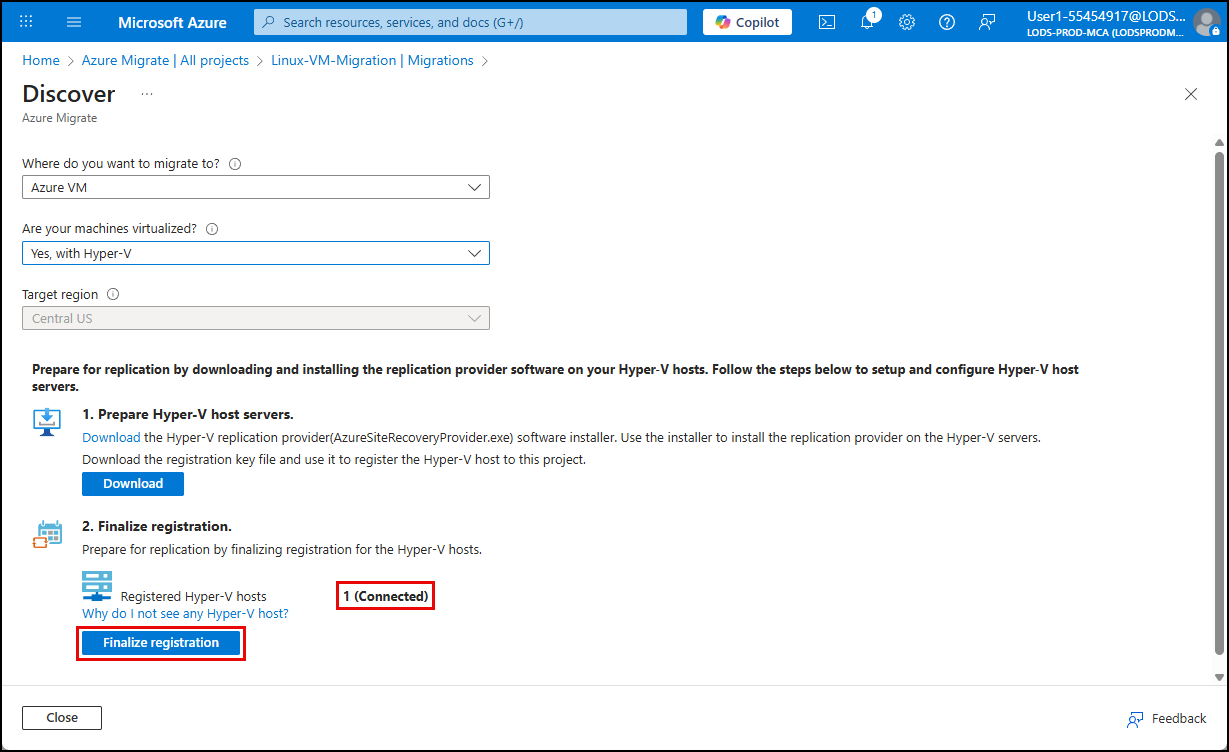
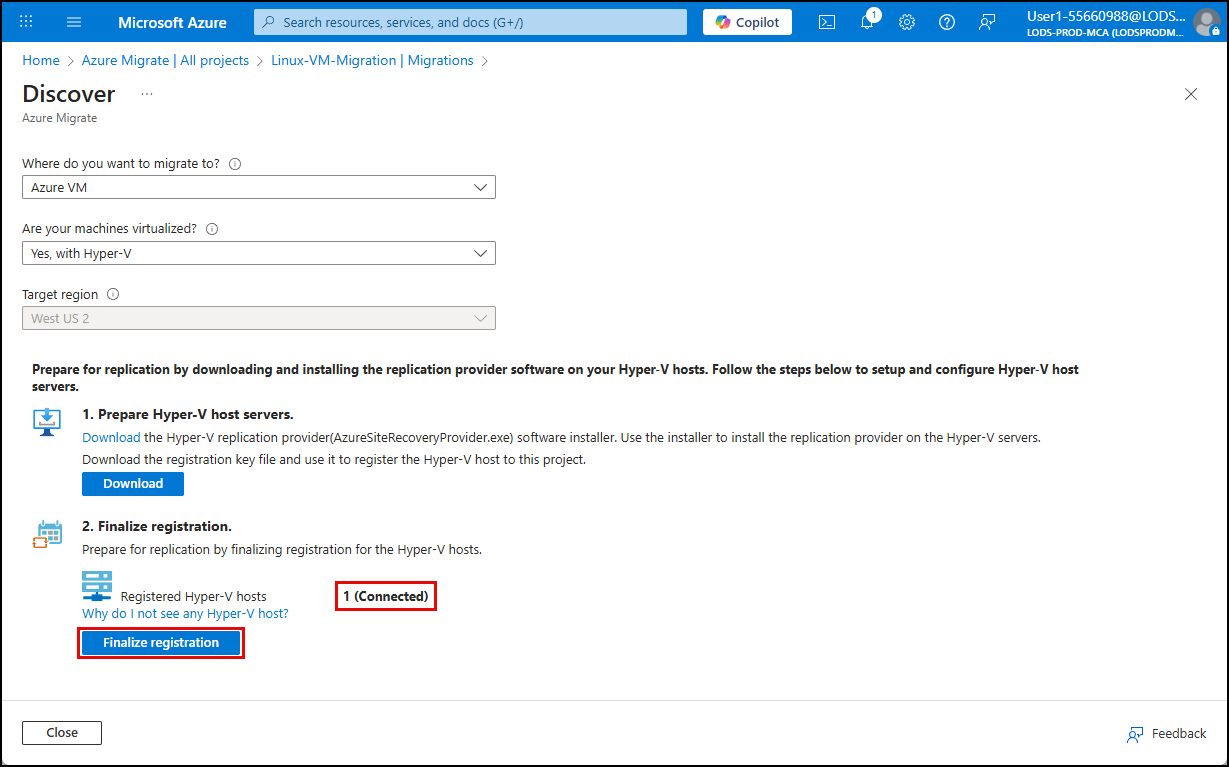
Updates based on feedback and required changes

diff --git a/Skillable/07-techsummit-migration-lab.md b/Skillable/07-techsummit-migration-lab.md
@@ -63,14 +63,17 @@ In this task, you will review the assessment report generated by Azure Migrate t
 
     ![The localhost:5432 PostgreSQL instance is highlighted in the list of discovered PostgreSQL servers.](./media/azure-migrate-project-assessment-postgresql-localhost-instance.png)
 
-    > **NOTE**: The **DB Instance** page in the assessment report includes tabs that provide a summary of the assessment, readiness details, sources details, target recommendations with estimated monthly total cost of ownership (TCO) for migrating the PostgreSQL instance to Azure. It also provides insights into the recommended configuration settings for the target Azure Database for PostgreSQL flexible server and top migration issues.
+    > **NOTE**:
+    > The **DB Instance** page in the assessment report includes tabs that provide a summary of the assessment, readiness details, sources details, target recommendations with estimated monthly total cost of ownership (TCO) for migrating the PostgreSQL instance to Azure. It also provides insights into the recommended configuration settings for the target Azure Database for PostgreSQL flexible server and top migration issues.
 
 5. [] Select the **Readiness** tab and review any potential blockers or issues that need to be addressed before migration by selecting number specified for **Migration issues**.
 
     ![The Readiness tab is displayed, with the Migration issues value highlighted.](./media/azure-migrate-project-assessment-postgresql-readiness.png)
 
     > **NOTE**:
-    > The readiness details will highlight any unsupported features, extensions, or configurations that may require remediation before proceeding with the migration. Review the migration issues and warnings to understand any potential blockers. The final section of the **Migration issues/warnings** dialog provides details about if any databases on the source server have migration blockers.
+    > The readiness details will highlight any unsupported features, extensions, or configurations that may require remediation before proceeding with the migration. Review the migration issues and warnings to understand any potential blockers. The final section of the **Migration issues/warnings** dialog provides details about if any databases on the source server have migration blockers. Migration issues are at the instance level, not the database level. Nothing is blocking the migration.
+    >
+    > ![The No user database on localhost:5432 has migration issues message is highlighted in the Migration issues/warnings dialog for PostgreSQL.](media/postgres-migration-issues.png)
 
 6. [] Select the **Source properties** tab, and inspect the **Version** of the source database to ensure it is compatible with the migration service in Azure Database for PostgreSQL.
 
@@ -330,7 +333,9 @@ In this task, you will configure and launch the migration and monitor its progre
 
     ![Screenshot of the Migrate PostgreSQL to Azure Database for PostgreSQL flexible server Source server tab, with the specified values entered into the form.](./media/azure-postgresql-migrate-source-server.png)
 
-5. [] On the **Target server** tab, enter your lab user password (same as the Azure login password) and select **Next: Databases >**.
+5. [] On the **Target server** tab, enter the **Pg Admin Password** found on the **Resources** tab of the lab instructions and select **Next: Databases >**.
+
+    ![The Pg Admin Password is highlighted on the lab instructions Resources tab.](media/lab-instructions-resources-pg-admin-password.png)
 
     ![Screenshot of the Migrate PostgreSQL to Azure Database for PostgreSQL flexible server Target server tab, with the specified password entered into the form.](./media/azure-postgresql-migrate-target-server.png)
 
@@ -346,7 +351,7 @@ In this task, you will configure and launch the migration and monitor its progre
 
     ![The Migration dialog is displayed, with the Refresh button highlighted. The dvdrental-db-migration run has a status of In progress.](./media/azure-postgresql-migrate-monitor.png)
 
-9. [] Select `dvdrental-db-migation` in the list to view the validation and migration details while monitoring.
+9.  [] Select `dvdrental-db-migation` in the list to view the validation and migration details while monitoring.
 
     ![The details page for the dvdrental-db-migation validate and migrate run as displayed.](media/azure-postgresql-migate-monitor-details.png)
 
@@ -388,16 +393,17 @@ In this task, you will connect to the target Azure database and run few a simple
 
     > **NOTE**: Within the **Essentials** pane, also note the **Administrator login** value. This is the username that will be used to log in to the server. This differs from the `pgadmin` user you used to connect to the on-premises database.
 
-3. [] Return to the open PuTTY terminal window on your Lab VM, or open a new one by connecting to the private IP address of the `LinuxLabVM-CentOS-7-PostGreSQL` VM and logging in with the `root` user and password.
+3. [] Return to the open PuTTY terminal window on your Lab VM, or open a new one by connecting to the private IP address of the `LinuxLabVM-CentOS-7-PostGreSQL` VM and logging in with the `root` user and password, `Pa$$w0rd`.
 
 4. [] At the PuTTY shell prompt, run the following command to connect to your Azure Database for PostgreSQL flexible server, replacing the `<YOUR_AZURE_POSTGRESQL_ENDPOINT>` token with the endpoint for your Azure Database for PostgreSQL flexible server.
 
     ```bash
-    psql -h pg-techsummit55290035.postgres.database.azure.com -U pgadminuser -d dvdrental
     psql -h <YOUR_AZURE_POSTGRESQL_ENDPOINT> -U pgadminuser -d dvdrental
     ```
 
 5. [] When prompted for the password for user `pgadminuser`, enter the **Password** from the **Resources** tab in the lab instructions.
+
+    ![The Pg Admin Password is highlighted on the lab instructions Resources tab.](media/lab-instructions-resources-pg-admin-password.png)
 
 6. [] From the `dvdrental` prompt, execute the following query to confirm that the data and schema were successfully migrated:
 

diff --git a/Skillable/06-techsummit-migration-lab.md b/Skillable/06-techsummit-migration-lab.md
@@ -101,8 +101,9 @@ In this task, you will prepare for the replication of a Linux VM by downloading 
 
    - [] **Where to you want to migrate to?**: Choose `Azure VM`
    - [] **Are your machines virtualized?**: Choose `Yes, with Hyper-V`
-   - [] **Target region**: Accept the default value already selected
-   - [] Check the box for **Confirm that the target region for migration is "centralus**
+   - [] **Target region**: Select the location that matches the `RG-Techsummit` resource group's region
+     - **CRITICAL**: The region must be the same as the `RG-Techsummit` resource group and the VNet within it, or you will not see the resources you are migrating.
+   - [] Check the box for **Confirm that the target region for migration is "[YOUR_RESOURCE_GROUP_REGION]"**, where `[YOUR_RESOURCE_GROUP_REGION]` is the region of the `RG-Techsummit` resource group.
    - [] Select **Create resources**
 
     ![The Discover blade is populated with the values specified above.](./media/43-CreateResources.png)
@@ -120,7 +121,7 @@ In this task, you will prepare for the replication of a Linux VM by downloading 
 
    1. [] Select **On (recommended)** and **Next**.
 
-   2. [] Select **Install**, accepting the default install location.
+   2. [] Select **Install**, accepting the default installation location.
 
    3. [] Select **Register** and on the **Vault Settings...** screen, browse to the **key file** you downloaded earlier and select **Next**.
 
@@ -130,7 +131,7 @@ In this task, you will prepare for the replication of a Linux VM by downloading 
 
    4. [] Select **Connect directly to Azure Site Recovery without a proxy server** and select **Next**.
 
-   5. [] Configuration Azure Site Recovery for registration will take one or two minutes to complete. When it finishes, select **Finish**.
+   5. [] Configuration Azure Site Recovery for registration will take one or two minutes to install. When it completes, select **Finish**.
 
 5. [] Go back to the **Discover** blade in the Azure portal and refresh the browser page.
 
@@ -172,7 +173,7 @@ In this task, you start replication of a Linux VM.
 
 ## Key tasks
 
-1. [] On the **Migrations** blade in the Azure portal, select the **Replicate** button.
+1. [] Return to the Azure Migrate **Migrations** blade in the Azure portal by going to Azure Migrate, selecting All projects in the left menu, selecting the **Linux-VM-Migration** project, selecting **Migrations** under Execute in the left menu, and then selecting the **Replicate** button.
 
     ![The Replicate button is highlighted on the Migrations blade.](./media/47-Replicate.png)
 
@@ -195,16 +196,19 @@ In this task, you start replication of a Linux VM.
 
     ![The Replicate Virutal machines tab is populated with the values specified above and the steps are numbered 1-4.](./media/49-ReplicateVM.png)
 
+    > **NOTE**: If you see an orange exclamation mark under **Azure VM Readiness** from the `LinuxLabVM-Ubuntu` VM, create a new assessment with a different name before proceeding.
+
 4. [] On the **Target settings** tab:
 
     - [] **Resource group**: Select `RG-Techsummit`
-    - [] **Cache storage account**: Select the storage account that was created for you
+    - [] **Cache storage account**: Select the storage account whose name begins with "storazmig"
     - [] **Virtual network**: Choose `vnet-AzMigrateLab`
+    - [] **Availability options**: Choose `No infrastructure redundancy required`
     - [] Select **Next**
 
     ![The settings above are entered into the Target settings tab. An error message is highlighted.](./media/50-ErrorIAM.png)
 
-    > **NOTE**: You may see an error that the Azure Migrate service cannot access the replication storage account. This error is because the storage account does not have the proper access privilege to the Recovery Service vault. To resolve this issue, first open the Recovery Service Vault resource in another browser page and under `Settings | Identity` turn ON the status on the `System assigned` and select **Save**.
+    > **NOTE**: If you see an error that the Azure Migrate service cannot access the replication storage account. This error is because the storage account does not have the proper access privilege to the Recovery Service vault. To resolve this issue, open the Recovery Service Vault resource in another browser page and under `Settings | Identity` turn ON the status on the `System assigned` and select **Save**.
     >
     > ![Screenshot of the steps to turn on the System Assigned identity for the recovery services vault.](./media/51-IAM-RecoveryVault.png)
     >
@@ -215,13 +219,14 @@ In this task, you start replication of a Linux VM.
 5. [] On the **Compute** tab:
 
     - [] Select `Linux` in the **OS Type** drop down
-    - [] Select any availability
     - [] Accept the default values for all other fields
     - [] Select **Next**
 
     ![Screenshot of the Compute tab, with the OS Type and its value of Linux highlighted.](./media/52-OSType.png)
 
-6. [] Accept the default values on the remaining tabs, then select **Start** on the **Review + start replication** tab.
+6. [] Accept the default values on the remaining tabs, then select **Replicate** on the **Review + start replication** tab.
+
+    ![The Review + start replication tab is displayed with the Replicate button highlighted.](media/review-start-replication.png)
 
 > **IMPORTANT**:
 >

diff --git a/Skillable/01-techsummit-migration-lab.md b/Skillable/01-techsummit-migration-lab.md
@@ -40,7 +40,9 @@ In this task, you will download and run the Azure Migrate preparation script usi
 
 ## Key tasks
 
-1. [] On the Lab VM, open the **Search Bar** and enter `"powershell"`.
+1. [] On the Lab VM, open the **Search Bar** and enter "powershell".
+
+    > **Note**: Your Lab VM also serves as the Hyper-V host machine throughout this workshop.
 
     ![The Windows Search Bar is highlighted on the Task Bar with powershell entered into the search box.](media/lab-vm-search-bar-powershell.png)
 
@@ -67,8 +69,6 @@ In this task, you will download and run the Azure Migrate preparation script usi
 5. [] Open a browser on the Lab VM and navigate to <https://aka.ms/migrate/hyperv/script> to download the `MicrosoftAzureMigrate-Hyper-V.ps1` script.
 
     ![Screenshot of the script download URL entered into the address bar in Microsoft Edge.](./media/09-download.png)
-
-    > **Note**: Your Lab VM also serves as the Hyper-V host for this workshop.
 
 6. [] Return to PowerShell and change to the **Downloads** directory:
 
@@ -160,34 +160,38 @@ In this task, you will use Azure Cloud Shell to run a PowerShell script that pro
     - [] Select `No storage account required`
     - [] Choose the available subscription from the dropdown
     - [] Select **Apply**
+    - [] Ensure **Use an existing private virtual network** is **NOT** checked
 
     ![The Getting started dialog in the Cloud Shell is displayed, with no storage account required, the subscription, and the Apply button all highlighted.](media/azure-cloud-shell-getting-started.png)
 
-7. [] At the Cloud Shell prompt, run the following script to create the required resources:
+7. [] At the Cloud Shell prompt, run the following script to create the required resources in the `RG-Techsummit` resource group:
 
     > **TIP**:
     > You may need to press `ENTER` during the `New-AzVirtualNetwork` command to complete execution.
 
     ```powershell
-    $location = "centralus"
-    $resourceGroupName = "rg-AzMigrateLab"
+    # Get the precreated resource group
+    $resourceGroupName = "RG-Techsummit"
+    $resourceGroup = Get-AzResourceGroup -Name $resourceGroupName
+    # Retrieve the location of the resource group
+    $location = $resourceGroup.Location
+
     $storagePrefix = "storazmig"
     $vnetName = "vnet-AzMigrateLab"
-
-    # Create Resource Group
-    Write-Host "Creating resource group '$resourceGroupName' in location '$location'..."
-    New-AzResourceGroup -Name $resourceGroupName -Location $location
 
     # Generate unique storage account name
     $randomSuffix = -join ((48..57) + (97..122) | Get-Random -Count 8 | % {[char]$_})
     $storageAccountName = "$storagePrefix$randomSuffix"
 
+    # Create storage account
     Write-Host "Creating storage account '$storageAccountName'..."
     New-AzStorageAccount -ResourceGroupName $resourceGroupName `
-       -Name $storageAccountName `
-       -Location $location `
-       -SkuName Standard_GRS `
-       -Kind StorageV2
+        -Name $storageAccountName `
+        -Location $location `
+        -SkuName Standard_GRS `
+        -Kind StorageV2 `
+        -AllowBlobPublicAccess $false `
+        -PublicNetworkAccess "Enabled"
 
     # Create Virtual Network and Subnet
     Write-Host "Creating virtual network '$vnetName' with subnet 'default'..."
@@ -199,15 +203,25 @@ In this task, you will use Azure Cloud Shell to run a PowerShell script that pro
         -Subnet $subnetConfig
     ```
 
-8. [] When the script finishes, verify output similar to:
+8. [] When the script finishes, verify storage account and virtual network outputs look similar to:
+
+    ```powershell
+    StorageAccountName ResourceGroupName PrimaryLocation SkuName      Kind      AccessTier CreationTime          ProvisioningState EnableHttpsTrafficOnly
+    ------------------ ----------------- --------------- -------      ----      ---------- ------------          ----------------- ----------------------
+    storazmigxbmezwi7  RG-Techsummit     westus2         Standard_GRS StorageV2 Hot        10/17/2025 9:53:25 PM Succeeded         True
+    ```
 
     ```powershell
     ResourceGroupName Name              Location  ProvisioningState EnableDdosProtection DefaultPublicNatGateway
     ----------------- ----              --------  ----------------- -------------------- -----------------------
-    rg-AzMigrateLab   vnet-AzMigrateLab centralus Succeeded         False
+    RG-Techsummit     vnet-AzMigrateLab westus2   Succeeded         False
     ```
 
 9. [] Close the Cloud Shell pane.
+
+10. [] In the Azure portal, navigate to the `RG-Techsummit` resource group and verify you see the newly created storage account and Virtual network resources.
+
+    ![The newly created storage account and virtual network resources are highlighted on the RG-Techsummit blade.](media/azure-rg-techsummit-new-resources.png)
 
 ===
 
@@ -245,7 +259,7 @@ In this task, you will create a new Azure Migrate project in the Azure portal.
 3. [] On the **Create Project** blade, enter the following:
 
     - [] **Subscription**: Accept the default  
-    - [] **Resource group**: Select `rg-AzMigrateLab`  
+    - [] **Resource group**: Select `RG-Techsummit`  
     - [] **Project name**: `Linux-VM-Migration`  
     - [] **Geography**: `United States`  
     - [] Expand **Advanced** and verify **Connectivity method** is set to `Public Endpoint`  

diff --git a/Skillable/09-techsummit-migration-lab.md b/Skillable/09-techsummit-migration-lab.md
@@ -118,6 +118,7 @@ In this task, you will create a new migration project in the Azure Database Migr
 3. [] On the **Source details** of the Azure SQL Database Offline Migration Wizard:
 
     - **Source Infrastruture Type**: Choose `Hyper V`
+    - **Resource group**: Select `RG-Techsummit`
     - **Location**: Select the location of your `RG-Techsummit` resource group
     - **SQL Server Instance Name**: Enter `SQLPTO2022_SQLPTO`
     - Select **Next: Connect to source SQL Server**
@@ -145,8 +146,10 @@ In this task, you will create a new migration project in the Azure Database Migr
 
     - **Authentication type**: Choose `SQL Authentication`
     - **User name**: `sqladminuser`
-    - **Password**: Use the `sqladminuser` password provided on the **Resources** tab of the lab instructions.
+    - **Password**: Use the `Sql Admin Password` password provided on the **Resources** tab of the lab instructions.
     - Select **Next: Map source and target databases**
+
+    ![The Sql Admin Password is highlighted on the lab instructions Resources tab.](media/lab-instructions-resources-sql-admin-password.png)
 
     ![Screenshot of the Connect to target database tab in the Azure Database Migration Service blade](media/dms-wizard-connect-to-target-database.png)
 

diff --git a/Skillable/02-techsummit-migration-lab.md b/Skillable/02-techsummit-migration-lab.md
@@ -176,7 +176,7 @@ In this task, you will download and configure the self-hosted integration runtim
 
     ![The IP address of the SHIR node is highlighted under node details on the Integration runtime page.](media/azure-dms-integration-runtime-ip-address.png)
 
-12. [] To get to your SQL server resource, enter "sql" in the Azure search bar and select your SQL server under **Resources** in the search results.
+12. [] To get to your SQL server resource, enter "sql" in the Azure search bar and select your Azure SQL Database Logical Server under **Resources** in the search results.
 
     ![In the Azure search bar, "sql" is entered and the SQL server resource is highlighted in the results.](media/azure-search-sql.png)
 

diff --git a/Skillable/03-techsummit-migration-lab.md b/Skillable/03-techsummit-migration-lab.md
@@ -72,7 +72,7 @@ In this task, you configure discovery credentials and host details in the Azure 
 
     - [] **Discovery source**: Leave `Hyper-V Host/Cluster` selected  
     - [] **IP Address/FQDN**: Paste the IP address of your Lab VM  
-    - [] **Map credentials**: Select `Lab Credentials`  
+    - [] **Map credentials**: Choose `LabCredentials`  
     - [] Select **Save**
 
     ![The values above are entered into the Add discovery source dialog.](./media/34-IPAddress.png)
